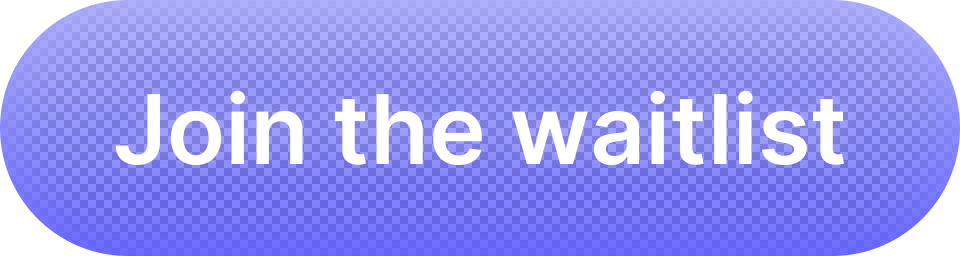
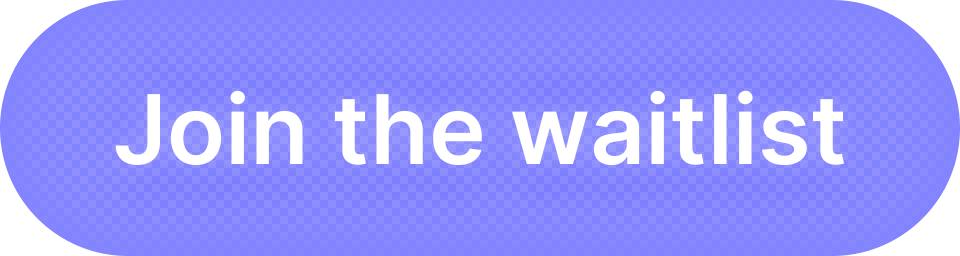
feat(docs): improve design

diff --git a/documentation/tailwind.config.js b/documentation/tailwind.config.js
@@ -530,15 +530,15 @@ module.exports = {
                 )`,
         "join-ai-waitlist-button-border-light": `conic-gradient(
                   from 45deg at 50% 50%,
-                    #bbbcff,
-                    #bbbcff,
+                    #bbbcff45,
+                    #bbbcff45,
                     #4849FF,
-                    #bbbcff,
-                    #bbbcff,
-                    #bbbcff,
+                    #bbbcff45,
+                    #bbbcff45,
+                    #bbbcff45,
                     #4849FF,
-                    #bbbcff,
-                    #bbbcff
+                    #bbbcff45,
+                    #bbbcff45
         )`,
         "refine-ai-page-bg-dark": [
           "url(https://refine.ams3.cdn.digitaloceanspaces.com/website/static/assets/refine-ai-page-bg-dark.png)",

diff --git a/documentation/src/pages/ai/index.tsx b/documentation/src/pages/ai/index.tsx
@@ -43,7 +43,7 @@ const RefineAIPage = () => {
             "dark:bg-[position:0_0,50%_30%]",
             "dark:bg-[length:4px_4px,960px_600px]",
             "bg-[position:0_0,50%_35%,50%_5%]",
-            "bg-[length:2px_2px,960px_200px,960px_600px]",
+            "bg-[length:4px_4px,960px_200px,960px_600px]",
           )}
         >
           <div
@@ -209,6 +209,9 @@ const Player = (props: CommonSectionProps) => {
                   height="100%"
                   controls={false}
                   playing={videoState === "playing"}
+                  onEnded={() => {
+                    setVideoState("stop");
+                  }}
                   onPlay={() => {
                     setVideoState("playing");
                   }}
